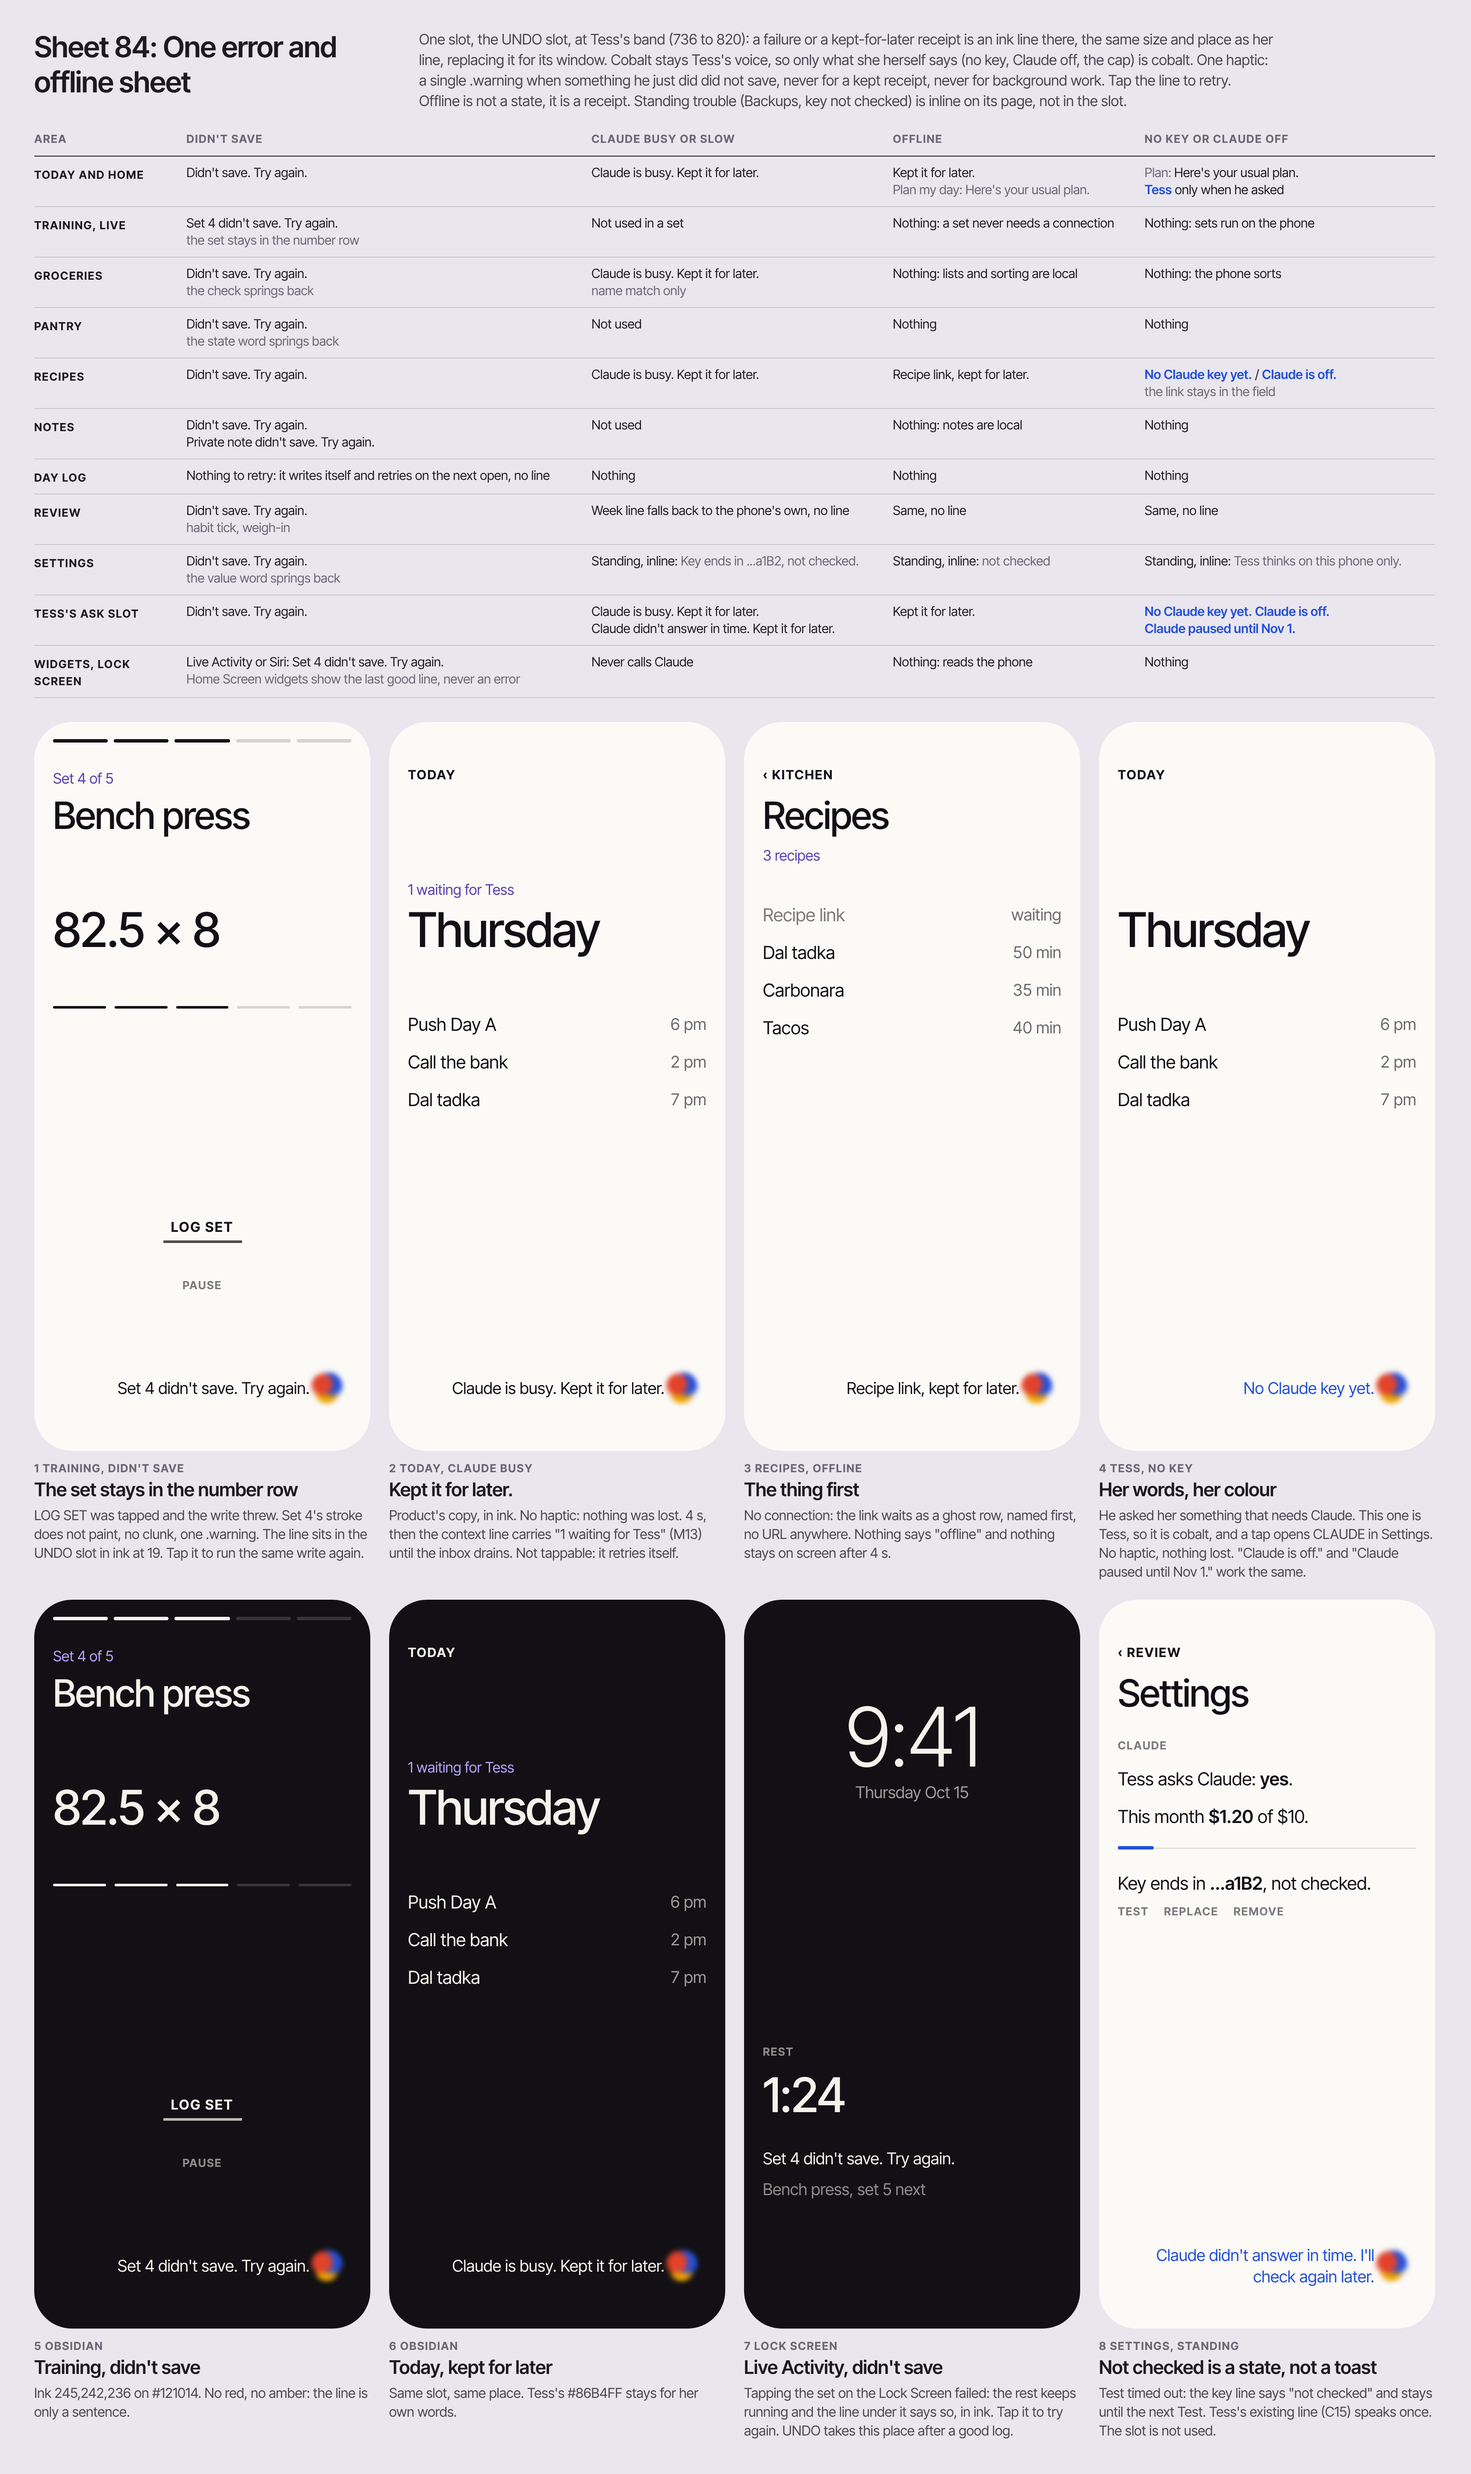
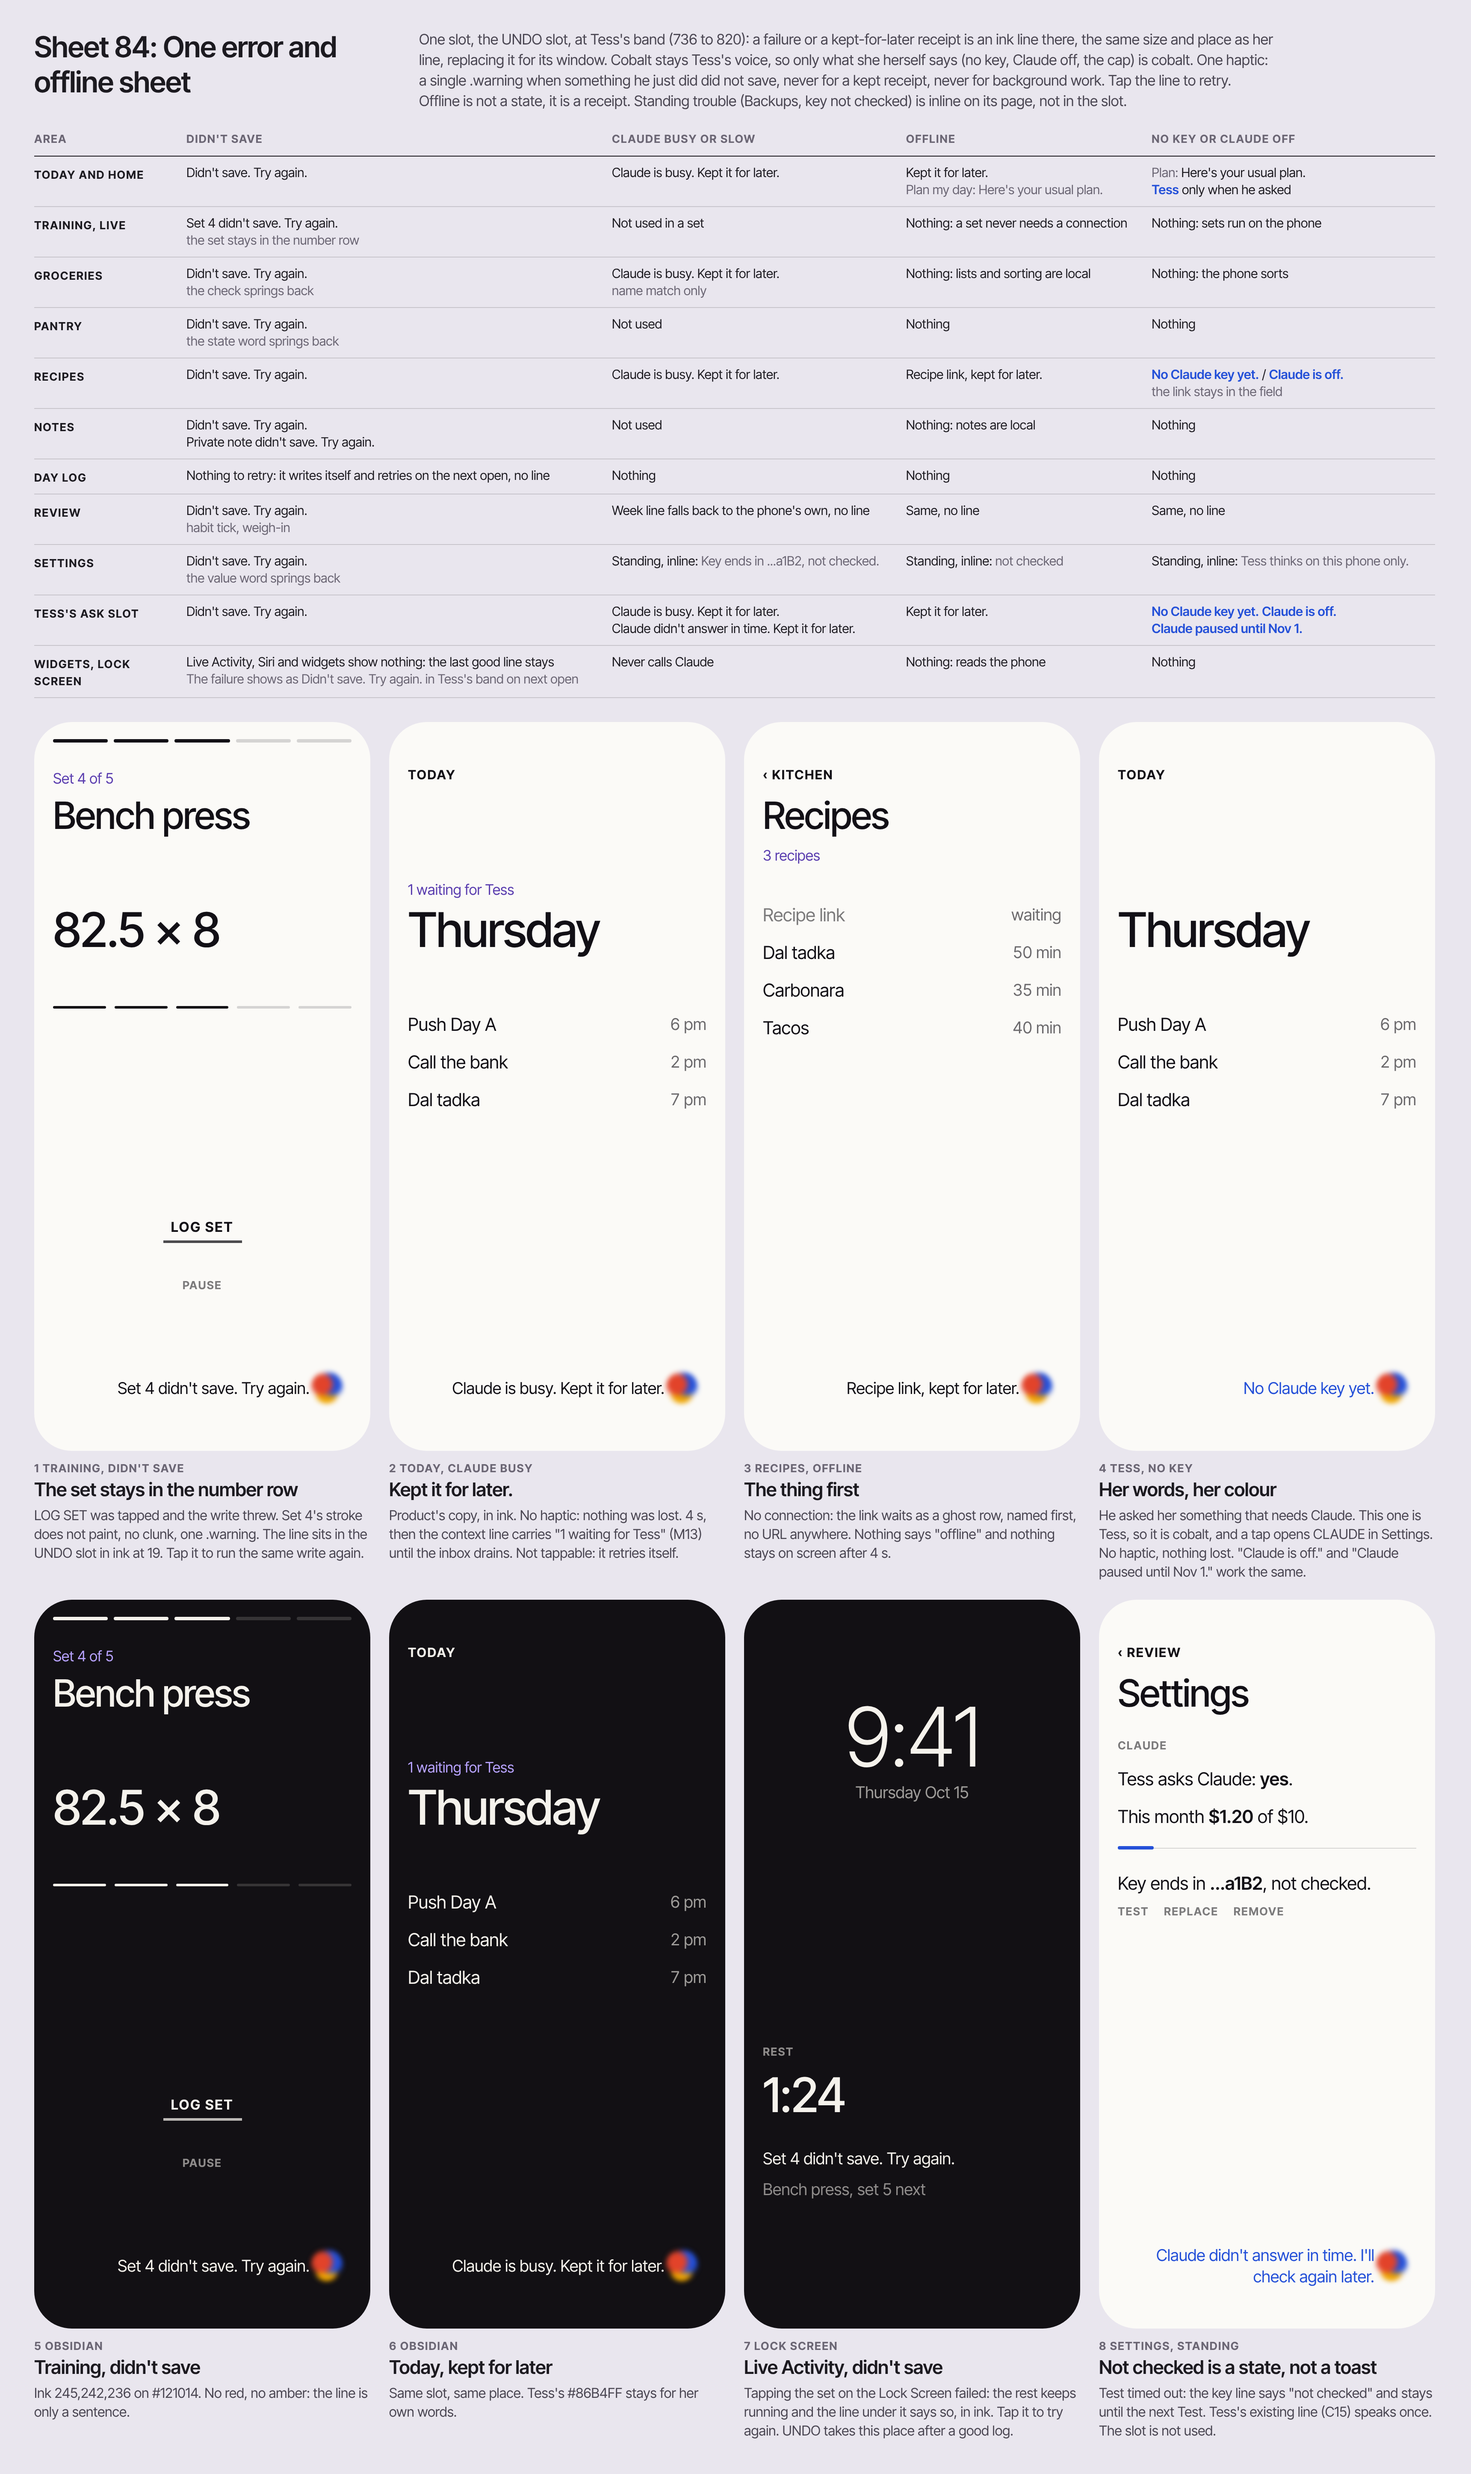
Sheet 84: fix a quoting slip in the study
Claude-Session: https://claude.ai/code/session_01SL6miEcidPoK87LdeaQGbH

diff --git a/docs/design/studies/errors-84.html b/docs/design/studies/errors-84.html
@@ -148,7 +148,7 @@ const MX = [
  ['REVIEW', "Didn't save. Try again.<br><i>habit tick, weigh-in</i>", "<span class=\"n\">Week line falls back to the phone's own, no line</span>", '<span class="n">Same, no line</span>', '<span class="n">Same, no line</span>'],
  ['SETTINGS', "Didn't save. Try again.<br><i>the value word springs back</i>", "Standing, inline: <i>Key ends in ...a1B2, not checked.</i>", "Standing, inline: <i>not checked</i>", "Standing, inline: <i>Tess thinks on this phone only.</i>"],
  ["TESS'S ASK SLOT", "Didn't save. Try again.", "Claude is busy. Kept it for later.<br>Claude didn't answer in time. Kept it for later.", "Kept it for later.", "<b>No Claude key yet.</b> <b>Claude is off.</b><br><b>Claude paused until Nov 1.</b>"],
- ['WIDGETS, LOCK SCREEN', "Live Activity, Siri and widgets show nothing: the last good line stays<br><i>The failure shows as "Didn't save. Try again." in Tess's band on next open</i>", '<span class="n">Never calls Claude</span>', '<span class="n">Nothing: reads the phone</span>', '<span class="n">Nothing</span>'],
+ ['WIDGETS, LOCK SCREEN', "Live Activity, Siri and widgets show nothing: the last good line stays<br><i>The failure shows as Didn\'t save. Try again. in Tess\'s band on next open</i>", '<span class="n">Never calls Claude</span>', '<span class="n">Nothing: reads the phone</span>', '<span class="n">Nothing</span>'],
 ];
 const matrix = `<div class="mx"><table><tr><th>AREA</th><th>DIDN'T SAVE</th><th>CLAUDE BUSY OR SLOW</th><th>OFFLINE</th><th>NO KEY OR CLAUDE OFF</th></tr>${MX.map(r => '<tr>' + r.map(c => `<td>${c}</td>`).join('') + '</tr>').join('')}</table></div>`;
 
